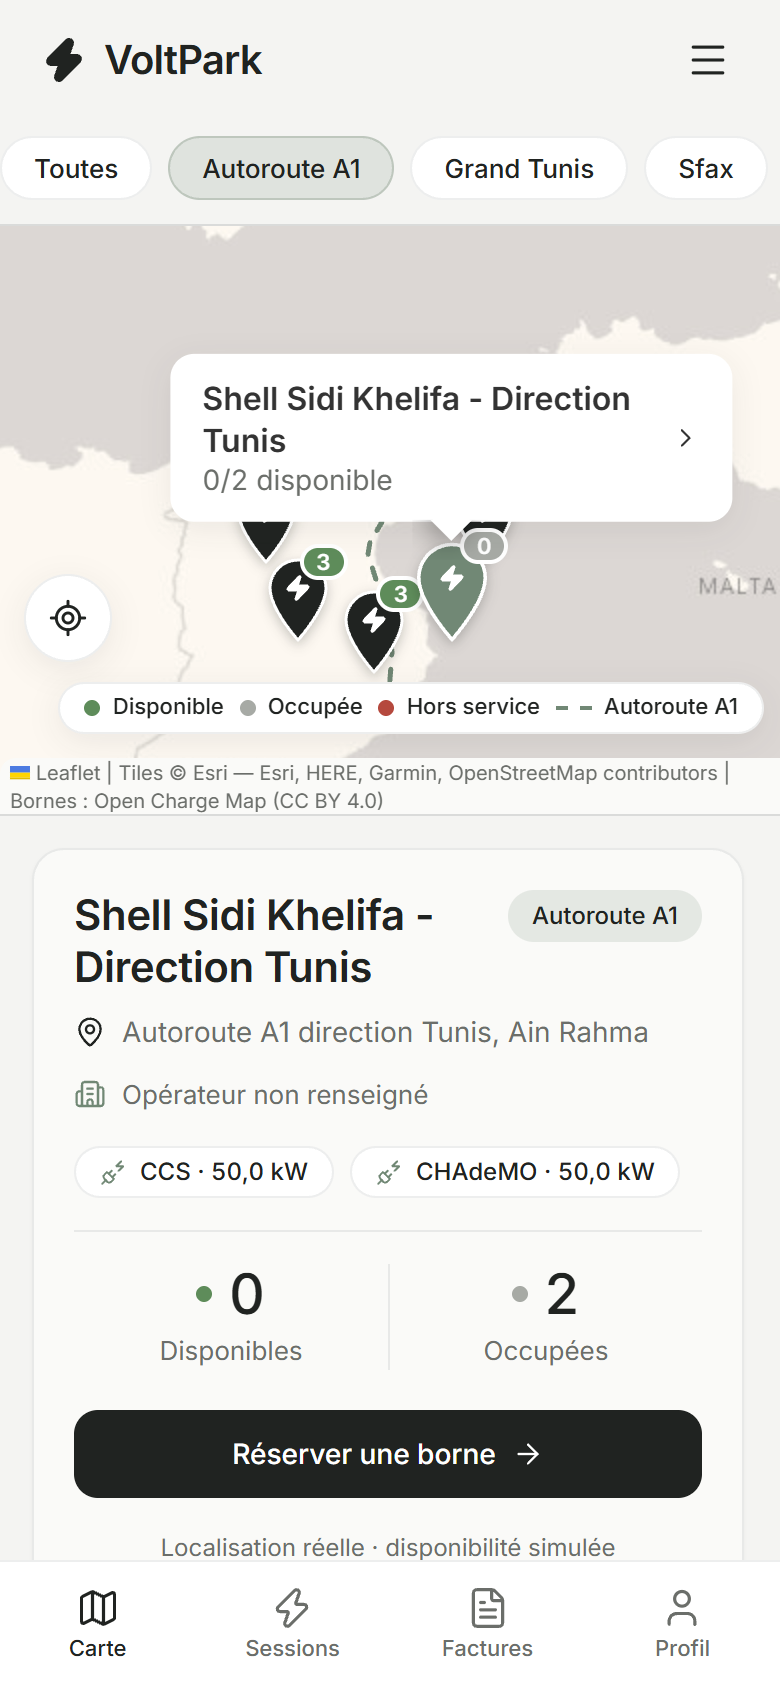
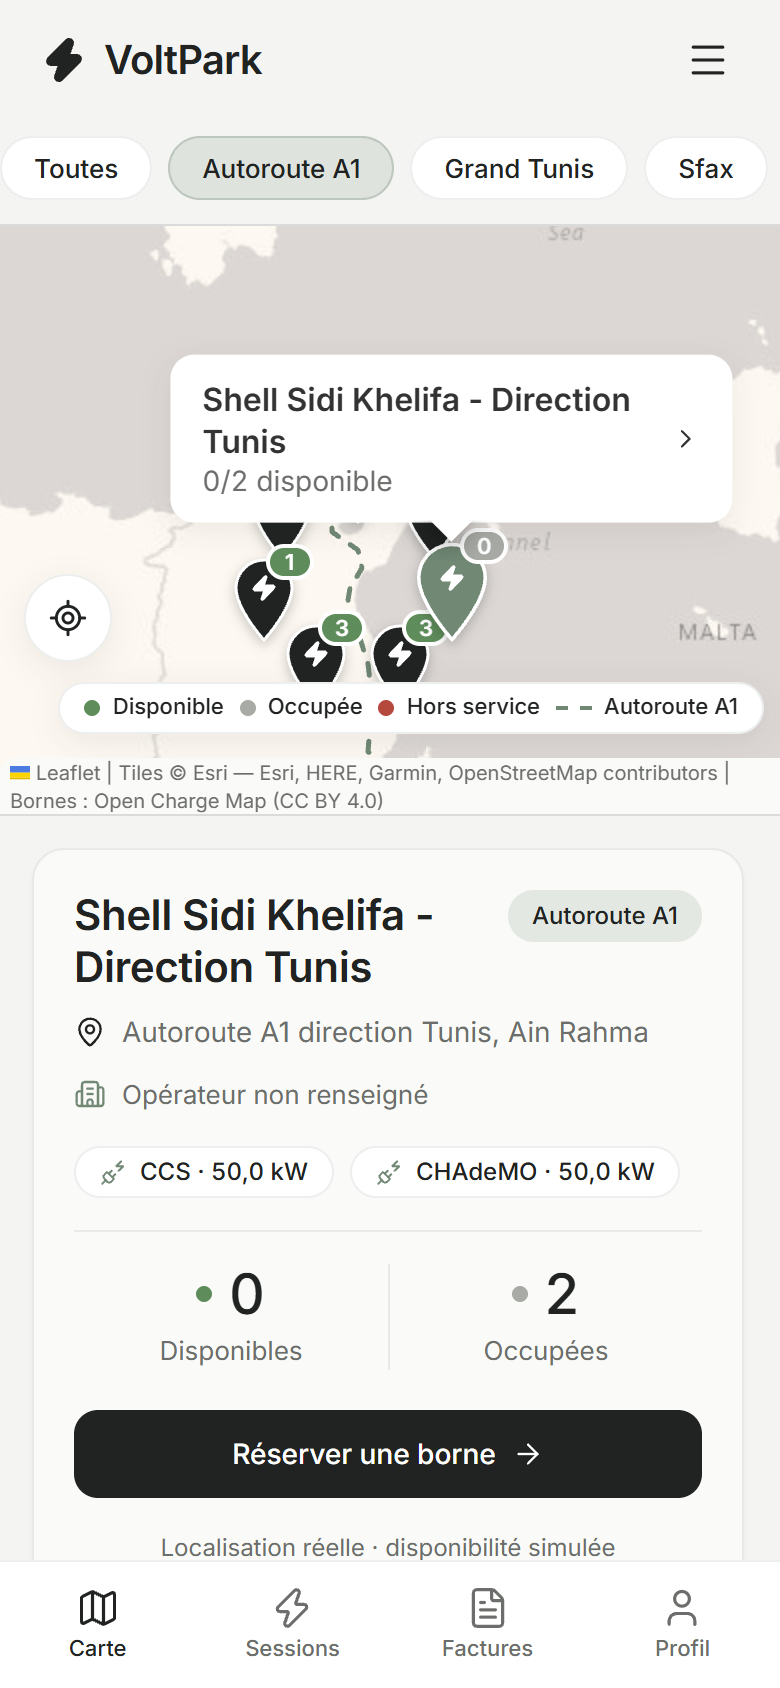
fix(data): drop dealer showrooms and end demo script cleanly
Remove the BYD and MG showrooms from the station file and its copies (14 stations, 7 A1 service or rest areas), exclude dealers in the normaliser, move history and reservations to remaining chargers.
The live step of the demo scripts treats curl's time limit (exit 28) as normal and fails only on a real curl error, so full-flow ends with exit code 0.

diff --git a/session-service/src/main/java/tn/voltpark/session/config/DataInitializer.java b/session-service/src/main/java/tn/voltpark/session/config/DataInitializer.java
@@ -78,14 +78,14 @@ public class DataInitializer implements CommandLineRunner {
     // conducteurs : index 0 = Rafaa (TAG-001), 1 = Dhia (TAG-002), 2 = Sarra (TAG-003)
     private static final List<HistorySeed> HISTORY = List.of(
             new HistorySeed(1, "CP-460375-1", 6, 8, 40, 55, "28.400", "0.90", true),   // Shell Sidi Khelifa (A1)
-            new HistorySeed(1, "CP-462507-1", 5, 18, 15, 70, "31.200", "0.55", true),  // MG MAXI Marsa
+            new HistorySeed(1, "CP-175677-2", 5, 18, 15, 70, "31.200", "0.55", true),  // TotalEnergies L'Aouina
             new HistorySeed(1, "CP-175675-1", 4, 11, 5, 30, "23.900", "1.00", true),   // TotalEnergies Grombalia (A1)
             new HistorySeed(1, "CP-175677-1", 3, 21, 30, 120, "12.800", "0.00", true), // TotalEnergies L'Aouina
-            new HistorySeed(1, "CP-460464-1", 2, 13, 20, 45, "24.300", "1.00", false), // BYD Bir El Kassaa
+            new HistorySeed(1, "CP-203502-1", 2, 13, 20, 45, "24.300", "1.00", false), // Shell Grombalia (A1)
             new HistorySeed(1, "CP-305758-1", 1, 7, 10, 60, "20.700", "0.40", false),  // Station Agil
             new HistorySeed(0, "CP-175672-3", 6, 12, 0, 35, "52.100", "1.00", true),   // El Jem (A1)
             new HistorySeed(0, "CP-175673-3", 4, 16, 45, 40, "31.500", "1.00", true),  // Borjine (A1)
-            new HistorySeed(0, "CP-462507-2", 2, 20, 30, 90, "17.800", "0.00", false), // MG MAXI Marsa
+            new HistorySeed(0, "CP-305758-1", 2, 20, 30, 90, "17.800", "0.00", false), // Station Agil
             new HistorySeed(0, "CP-460463-1", 0, 9, 15, 50, "17.400", "1.00", false),  // Shell Bir El Kassaa (A1)
             new HistorySeed(2, "CP-175670-1", 5, 19, 0, 80, "15.300", "0.30", true),   // TotalEnergies RN1 Sfax
             new HistorySeed(2, "CP-189069-1", 3, 10, 30, 75, "18.900", "1.00", true),  // TotalEnergies Sousse
@@ -299,7 +299,7 @@ public class DataInitializer implements CommandLineRunner {
         Instant yesterday = today.minusDays(1).atTime(17, 0).atZone(TUNIS).toInstant();
 
         reservationRepository.save(new Reservation(drivers.get(1).getId(), "CP-175673-3", tomorrow, tomorrow.plus(1, ChronoUnit.HOURS)));
-        reservationRepository.save(new Reservation(drivers.get(0).getId(), "CP-462507-1", afterTomorrow, afterTomorrow.plus(90, ChronoUnit.MINUTES)));
+        reservationRepository.save(new Reservation(drivers.get(0).getId(), "CP-175670-2", afterTomorrow, afterTomorrow.plus(90, ChronoUnit.MINUTES)));
         reservationRepository.save(new Reservation(drivers.get(2).getId(), "CP-460271-1", tomorrow, tomorrow.plus(1, ChronoUnit.HOURS)));
         Reservation cancelled = new Reservation(drivers.get(1).getId(), "CP-203502-1", yesterday, yesterday.plus(1, ChronoUnit.HOURS));
         cancelled.setStatus(Reservation.ReservationStatus.CANCELLED);

diff --git a/session-service/src/test/java/tn/voltpark/session/config/StationSeedTest.java b/session-service/src/test/java/tn/voltpark/session/config/StationSeedTest.java
@@ -13,14 +13,16 @@ class StationSeedTest {
     void readsRealStationsFromSharedFile() {
         List<DataInitializer.StationData> stations = DataInitializer.readStations();
 
-        assertThat(stations).hasSize(16);
+        assertThat(stations).hasSize(14);
+        // pas de concessionnaires automobiles (showrooms)
+        assertThat(stations).extracting(DataInitializer.StationData::ocmId).doesNotContain(460464L, 462507L);
         DataInitializer.StationData sidiKhelifa = stations.stream()
                 .filter(s -> s.ocmId() == 460375).findFirst().orElseThrow();
         assertThat(sidiKhelifa.corridor()).isEqualTo("A1");
         assertThat(sidiKhelifa.latitude()).isEqualTo(36.247161607668616);
         assertThat(sidiKhelifa.connections()).extracting(DataInitializer.ConnectionData::type)
                 .containsExactly("CCS", "CHAdeMO");
-        assertThat(stations.stream().filter(s -> "A1".equals(s.corridor()))).hasSize(8);
+        assertThat(stations.stream().filter(s -> "A1".equals(s.corridor()))).hasSize(7);
     }
 
     @Test

diff --git a/charger-gateway-service/src/test/java/tn/voltpark/charger/config/StationSeedTest.java b/charger-gateway-service/src/test/java/tn/voltpark/charger/config/StationSeedTest.java
@@ -13,9 +13,9 @@ class StationSeedTest {
     void oneChargerPerChargingPointOfTheSharedFile() {
         Map<String, ChargerStatus> chargers = DataInitializer.chargersFromFile();
 
-        assertThat(chargers).hasSize(31);
+        assertThat(chargers).hasSize(28);
         assertThat(chargers).containsKeys("CP-460375-1", "CP-460375-2", "CP-175672-3", "CP-175673-4");
-        assertThat(chargers).doesNotContainKey("CP-460375-3");
+        assertThat(chargers).doesNotContainKeys("CP-460375-3", "CP-460464-1", "CP-462507-1");
     }
 
     @Test
@@ -27,6 +27,6 @@ class StationSeedTest {
         assertThat(chargers.get("CP-175672-3")).isEqualTo(ChargerStatus.AVAILABLE);
         assertThat(chargers.get("CP-460375-2")).isEqualTo(ChargerStatus.OCCUPIED);
         assertThat(chargers.get("CP-175677-3")).isEqualTo(ChargerStatus.FAULTED);
-        assertThat(chargers.values().stream().filter(s -> s == ChargerStatus.AVAILABLE)).hasSize(23);
+        assertThat(chargers.values().stream().filter(s -> s == ChargerStatus.AVAILABLE)).hasSize(20);
     }
 }

diff --git a/README.md b/README.md
@@ -179,7 +179,7 @@ VITE_API_BASE_URL=http://localhost:8080/api/v1 npm run dev     # http://localhos
 
 **Fonds de carte.** Fond clair Esri World Light Gray Canvas (attribution affichée en bas de la carte, avec « Bornes : Open Charge Map (CC BY 4.0) »), sans clé d'API ; CARTO Positron demande désormais une clé. Une autre source peut être choisie au build avec `VITE_MAP_TILES_URL` et `VITE_MAP_TILES_ATTRIBUTION`. Les tuiles demandent un accès à Internet : sans elles, la page affiche la liste des stations. Les épingles trop proches à un niveau de zoom sont écartées en cercle (chaque station garde son épingle).
 
-**Données de démonstration.** Les stations sont des bornes **réelles** de Tunisie, issues d'Open Charge Map (licence CC BY 4.0) : 16 stations publiques et opérationnelles, dont 8 sur l'autoroute A1 Tunis - Sfax, et 31 bornes (fichier partagé `data/stations-tn.json`, voir [data/README.md](data/README.md)). La position, l'opérateur et les connecteurs sont réels ; la disponibilité, les prix et l'occupation sont simulés. Au premier démarrage (bases vides), session-service et charger-gateway-service créent ces stations et bornes avec les mêmes identifiants (`ST-OCM-460375`, `CP-460375-1`), 4 conducteurs (`TAG-BLOCKED` est refusé par les bornes), des sessions et factures sur les 7 derniers jours et quelques réservations. Pour repartir de ces données : `docker compose down -v`.
+**Données de démonstration.** Les stations sont des bornes **réelles** de Tunisie, issues d'Open Charge Map (licence CC BY 4.0) : 14 stations publiques et opérationnelles (stations-service, aires d'autoroute, municipalité, centres commerciaux ; sans les concessionnaires), dont 7 aires de l'autoroute A1 Tunis - Sfax, et 28 bornes (fichier partagé `data/stations-tn.json`, voir [data/README.md](data/README.md)). La position, l'opérateur et les connecteurs sont réels ; la disponibilité, les prix et l'occupation sont simulés. Au premier démarrage (bases vides), session-service et charger-gateway-service créent ces stations et bornes avec les mêmes identifiants (`ST-OCM-460375`, `CP-460375-1`), 4 conducteurs (`TAG-BLOCKED` est refusé par les bornes), des sessions et factures sur les 7 derniers jours et quelques réservations. Pour repartir de ces données : `docker compose down -v`.
 
 **Captures d'écran** (`docs/screenshots/`) : tableau de bord sans session (`carte.png` en 1920 × 1080, `carte-1440.png`, `carte-mobile.png`) et avec une session en direct (`carte-live.png`, `carte-live-1440.png`, `carte-live-mobile.png`, `mobile-session.png`), `session-live.png`, `sessions.png`, `reservation.png`, `factures.png`, `facture.png`, `pending-start.png`.
 

diff --git a/data/README.md b/data/README.md
@@ -13,9 +13,13 @@
   de normalisation que l'import par l'API. Ces fiches n'affichent pas la date de dernière
   vérification : `lastVerified` vaut donc `null`.
 
-Contenu : les **16** lieux de Tunisie à la fois **opérationnels** et **publics** (sur 29 fiches) ;
-les lieux privés (hôtels, résidences, concessionnaires réservés aux clients) et ceux réservés aux
-membres sont écartés. Pour chaque station : `ocmId`, `name`, `address`, `town`, `latitude`,
+Contenu : **14** lieux de Tunisie à la fois **opérationnels** et **publics** (sur 29 fiches) :
+stations-service, aires d'autoroute, municipalité et centres commerciaux. Sont écartés les lieux
+privés (hôtels, résidences), ceux réservés aux membres et les **concessionnaires automobiles**
+(showrooms BYD et MG), même quand leur fiche est marquée publique. Sur l'A1, il ne reste que des
+stations-service et aires de repos de l'autoroute (7).
+
+Pour chaque station : `ocmId`, `name`, `address`, `town`, `latitude`,
 `longitude`, `operator` (`null` quand Open Charge Map ne le connaît pas), `usageType`,
 `connections` (type `CCS` / `CHAdeMO` / `Type 2`, `powerKw`, `current` AC/DC, `quantity`),
 `lastVerified` et `corridor`.
